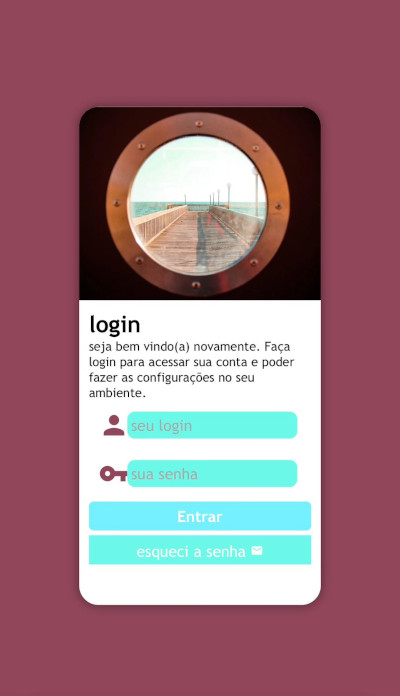
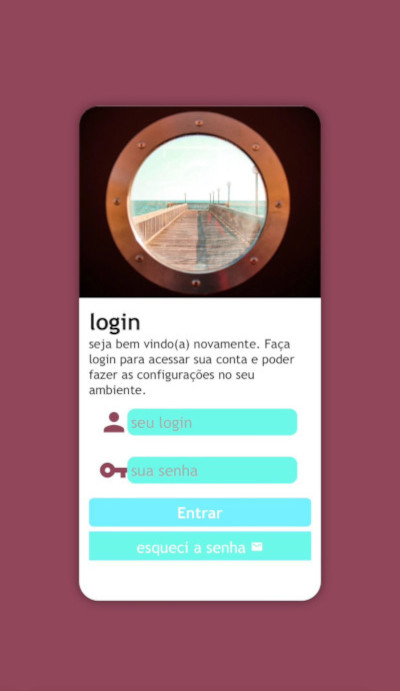
finalizando

diff --git a/style.css b/style.css
@@ -8,7 +8,25 @@ body {
     background-color: #3a2e39;
 }
 .principal {
+    width: 100%;
+    height: 100%;
+    position: relative;
     display: flex;
-    justify-content: space-between;
+    flex-direction: row;
+    justify-content: space-around;
+    align-items: center;
     gap: 10px;
+    overflow: hidden;
+}
+
+.imagens {
+    padding-top: 10px;
+
+}
+
+@media (max-width: 769px) {
+    .principal {
+        height: 85%;        
+        flex-direction: column;
+    }
 }

diff --git a/index.html b/index.html
@@ -16,7 +16,7 @@
             </a>
             </section>
 
-            <section class="imagen">
+            <section class="imagens">
                 <a href="https://italoferreira21.github.io/projeto-login/">
                     <img src="./src/imagens/print-pro2.jpg" alt="">
                 </a>
